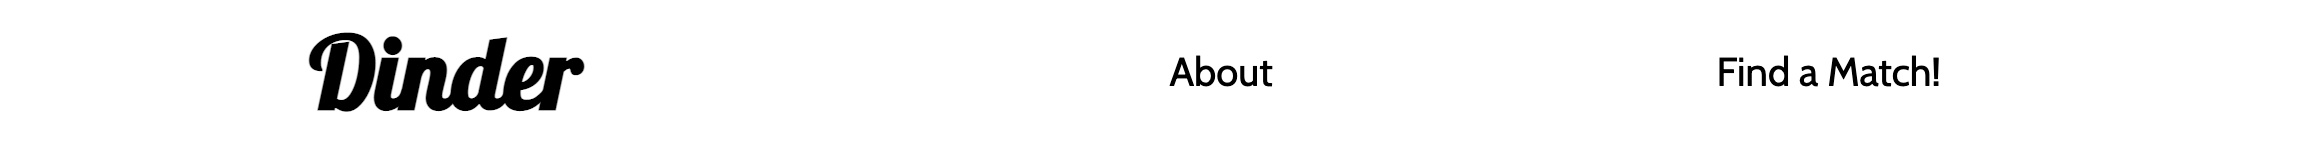
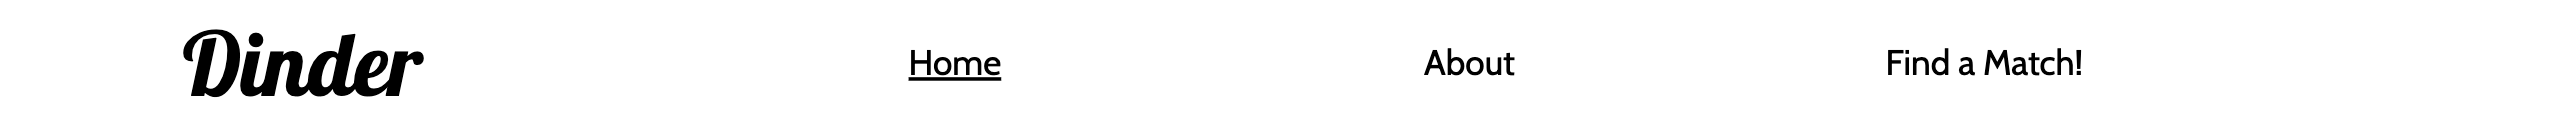
add home link to nav bar and change picture of nav bar in readme

diff --git a/about.html b/about.html
@@ -21,8 +21,8 @@
                     <li id="logo_link"><a href="index.html" aria-label="go to home page">
                             <p id="logo">Dinder</p>
                         </a></li>
-                    <li class="nav_link"><a href="about.html" aria-label="go to about page" class="active">About</a>
-                    </li>
+                    <li class="nav_link"><a href="index.html" aria-label="go to home page">Home</a></li>
+                    <li class="nav_link"><a href="about.html" aria-label="go to about page" class="active">About</a></li>
                     <li id="match_link" class="nav_link" aria-label="go to find a match page">
                         <a href="find_a_match.html">Find a Match!</a>
                     </li>

diff --git a/find_a_match.html b/find_a_match.html
@@ -21,6 +21,7 @@
                     <li id="logo_link"><a href="index.html" aria-label="go to home page">
                         <p id="logo">Dinder</p>
                     </a></li>
+                    <li class="nav_link"><a href="index.html" aria-label="go to home page">Home</a></li>
                     <li class="nav_link"><a href="about.html" aria-label="go to about page">About</a></li>
                     <li id="match_link" class="nav_link" aria-label="go to find a match page">
                         <a href="find_a_match.html" class="active">Find a Match!</a>

diff --git a/index.html b/index.html
@@ -22,6 +22,7 @@
                     <li id="logo_link"><a href="index.html" aria-label="go to home page">
                         <p id="logo">Dinder</p>
                     </a></li>
+                    <li class="nav_link"><a href="index.html" aria-label="go to home page" class="active">Home</a></li>
                     <li class="nav_link"><a href="about.html" aria-label="go to about page">About</a></li>
                     <li id="match_link" class="nav_link" aria-label="go to find a match page">
                         <a href="find_a_match.html">Find a Match!</a>
